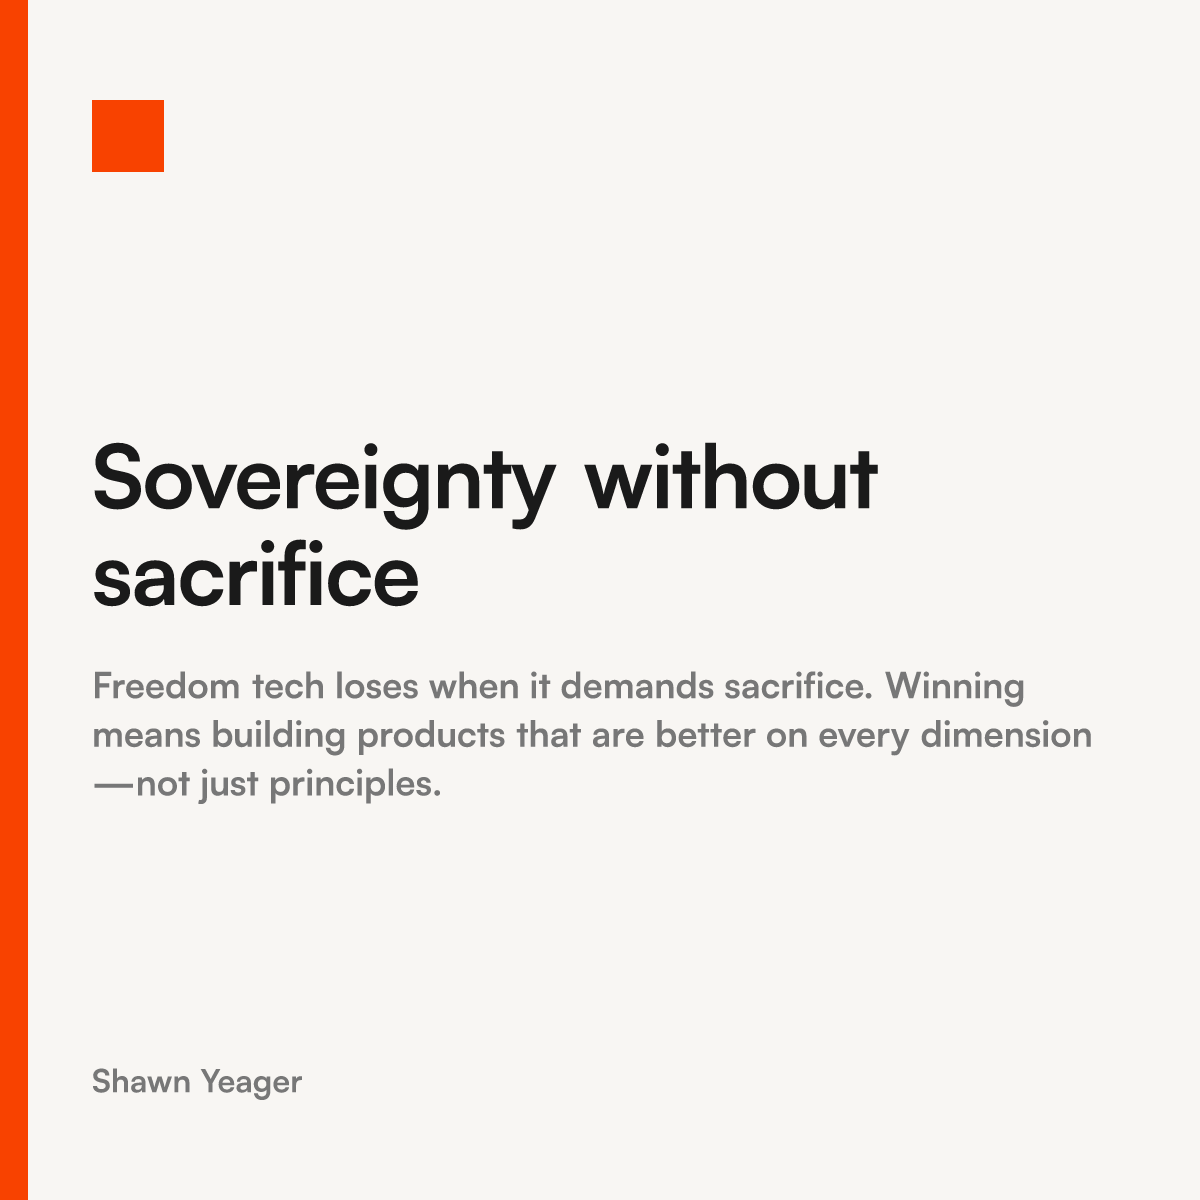
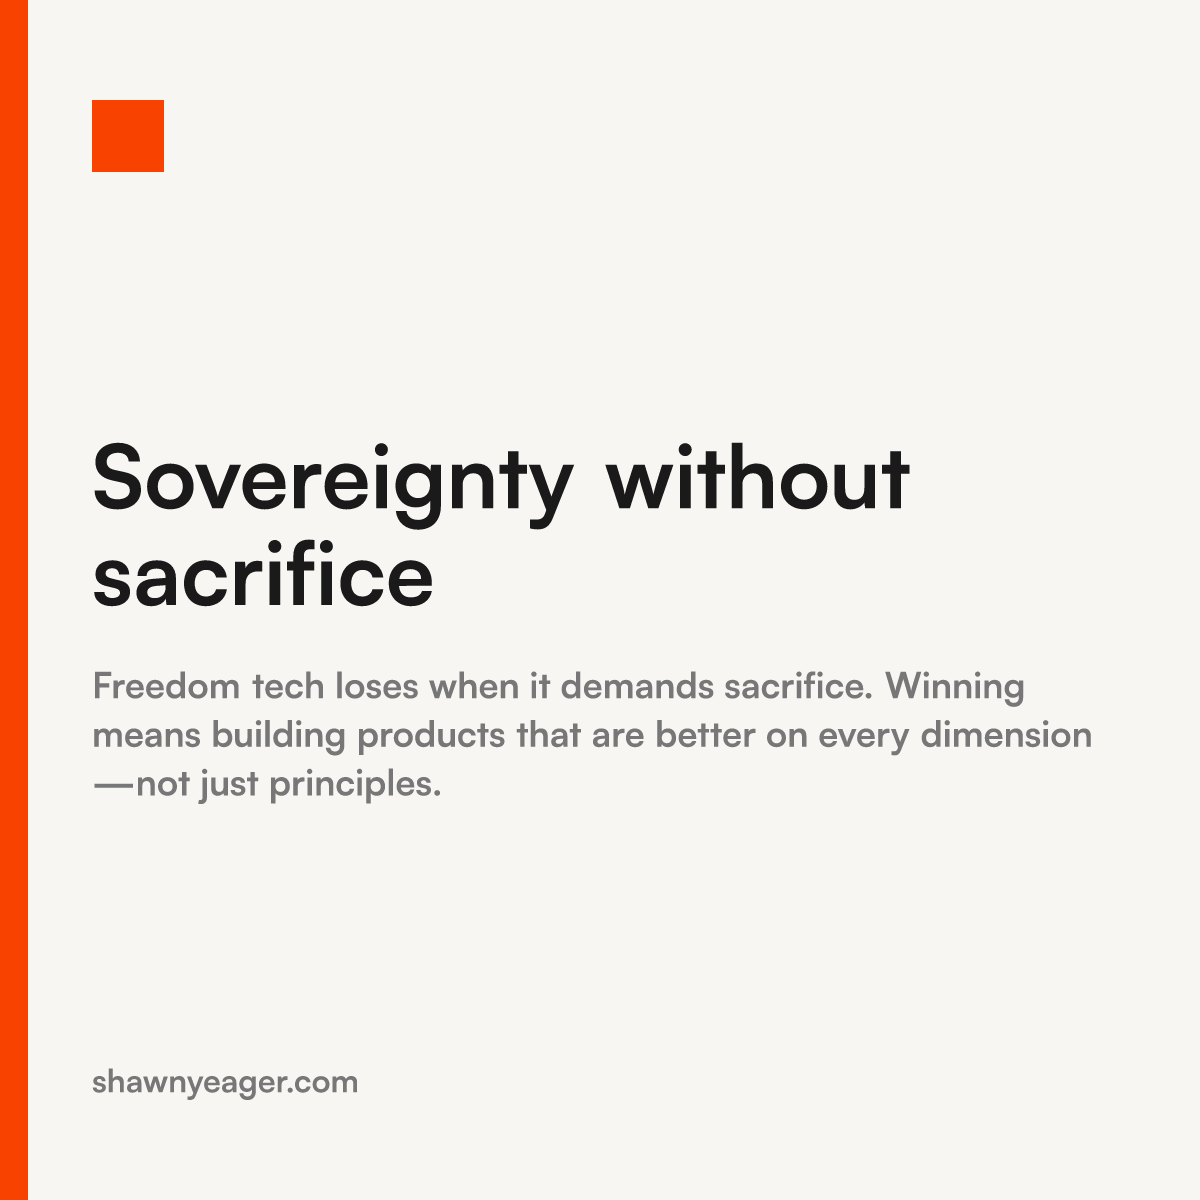
feat: Redesign OG images and improve meta descriptions
OG Image System:
- New design with left orange bar, brand mark, title/description, site URL
- Generate landscape (1200x630) + square (1200x1200) for all pages
- Per-page images: essays, pages, and homepage
- Uniform "shawnyeager.com" attribution

Content Improvements:
- Update meta descriptions to avoid title repetition
- Shorten /now description for SEO (under 160 chars)
- Fix /v4v description (Lightning only, no on-chain)
- Fix /lets-win description (no product echo)
- Fix /podcast description (no title echo)

Cleanup:
- Delete orphaned lightning-qr.png

Theme Update:
- Pull typography improvements (paragraph spacing, text color)

Changed region(s): [[0.1233, 0.37, 0.7708, 0.5242], [0.0617, 0.8942, 0.3083, 0.925]]

diff --git a/scripts/generate-og-images.js b/scripts/generate-og-images.js
@@ -32,7 +32,10 @@ const SQUARE = {
   titleMargin: 40,
 };
 
-async function generateOG(title, description, outputPath, format = 'landscape') {
+// All pages use site URL for attribution
+const SITE_URL = 'shawnyeager.com';
+
+async function generateOG(title, description, outputPath, format = 'landscape', author = 'Shawn Yeager') {
   const isSquare = format === 'square';
   const scale = isSquare ? 1 : 2;
   const config = isSquare ? SQUARE : LANDSCAPE;
@@ -116,7 +119,6 @@ async function generateOG(title, description, outputPath, format = 'landscape') 
                           fontFamily: 'Satoshi',
                           color: '#1a1a1a',
                           lineHeight: 1.1,
-                          letterSpacing: '-0.02em',
                           marginBottom: description ? `${(isSquare ? config.titleMargin : config.titleMargin * scale)}px` : 0,
                         },
                         children: title,
@@ -138,7 +140,7 @@ async function generateOG(title, description, outputPath, format = 'landscape') 
                   ],
                 },
               },
-              // Author at bottom
+              // Attribution at bottom
               {
                 type: 'div',
                 props: {
@@ -148,7 +150,7 @@ async function generateOG(title, description, outputPath, format = 'landscape') 
                     fontFamily: 'Satoshi',
                     color: '#777',
                   },
-                  children: 'Shawn Yeager',
+                  children: author,
                 },
               },
             ],
@@ -196,8 +198,8 @@ async function processDirectory(dir, outputDir, isEssays = false) {
     const slug = getSlug(file, data.slug);
 
     // Generate both landscape and square
-    await generateOG(data.title, data.description, join(outputDir, `${slug}.png`), 'landscape');
-    await generateOG(data.title, data.description, join(outputDir, `${slug}-square.png`), 'square');
+    await generateOG(data.title, data.description, join(outputDir, `${slug}.png`), 'landscape', SITE_URL);
+    await generateOG(data.title, data.description, join(outputDir, `${slug}-square.png`), 'square', SITE_URL);
     console.log(`Generated: ${slug} (landscape + square)`);
   }
 }
@@ -218,8 +220,8 @@ async function processHomepage() {
 
   // Homepage uses headline (H1) + description
   const title = data.headline || data.title;
-  await generateOG(title, data.description, join(outputDir, 'og-image.png'), 'landscape');
-  await generateOG(title, data.description, join(outputDir, 'og-image-square.png'), 'square');
+  await generateOG(title, data.description, join(outputDir, 'og-image.png'), 'landscape', SITE_URL);
+  await generateOG(title, data.description, join(outputDir, 'og-image-square.png'), 'square', SITE_URL);
   console.log('Generated: og-image (landscape + square)');
 }
 

diff --git a/content/_index.md b/content/_index.md
@@ -1,6 +1,6 @@
 ---
 title: Shawn Yeager
-description: "I solve hard commercial problems for Bitcoin startups. 30 years in tech, $300M in revenue. Freedom tech wins in the market—or not at all."
+description: "I help Bitcoin founders solve hard commercial problems. 30 years in tech, $300M revenue. Led sales at Amboss, NYDIG Payments, and Bottlepay."
 headline: "I'm working toward a future built on Bitcoin."
 ---
 I help founders on the same mission solve hard commercial problems.

diff --git a/content/lets-win.md b/content/lets-win.md
@@ -2,7 +2,7 @@
 title: "You've got the product"
 seo_title: "Let's win"
 subtitle: "Now you need customers, revenue, and a repeatable way to get both."
-description: "You've got the product. Now you need customers, revenue, and a repeatable way to get both. Find out where you stand."
+description: "Deep in engineering but flying blind on commercial fundamentals? The 10-question GTM scorecard shows you where to start."
 date: 2025-12-11
 type: lets-win
 hide_footer_signup: true

diff --git a/content/podcast.md b/content/podcast.md
@@ -1,6 +1,6 @@
 ---
 title: "Trust Revolution"
-description: "Trust Revolution podcast: Unfiltered conversations with builders, thinkers, and operators in Bitcoin. Exploring trust, decentralization, and what comes next."
+description: "Unfiltered conversations with builders, thinkers, and operators in Bitcoin about the systems we trust, why they work (or don't), and what comes next."
 subtitle: "Rethinking trust for a decentralized future"
 date: 2025-10-11
 type: page

diff --git a/content/now.md b/content/now.md
@@ -1,6 +1,6 @@
 ---
 title: "What I'm focused on now"
-description: "What I'm focused on right now: Trust Revolution podcast, advisory work with Bitcoin startups, monthly essays on go-to-market strategy, and wrestling with the custody vs. sovereignty tension in freedom tech."
+description: "Trust Revolution podcast, Bitcoin startup advisory, and monthly essays on go-to-market strategy."
 date: 2025-11-13
 type: page
 layout: now

diff --git a/content/subscribed.md b/content/subscribed.md
@@ -1,6 +1,6 @@
 ---
 title: "Thanks for subscribing"
-description: "Thanks for subscribing to occasional updates on Bitcoin strategy and go-to-market thinking."
+description: "You'll receive occasional essays on Bitcoin strategy, go-to-market execution, and building freedom tech that wins."
 type: page
 show_title: true
 hide_footer_signup: true

diff --git a/content/v4v.md b/content/v4v.md
@@ -1,6 +1,6 @@
 ---
 title: "Support this work"
-description: "Support this work with Bitcoin."
+description: "Send sats via Lightning if this work has been valuable."
 type: v4v
 hide_footer_signup: true
 build:
